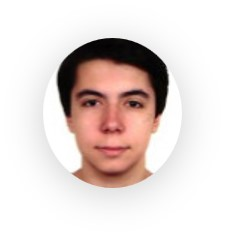
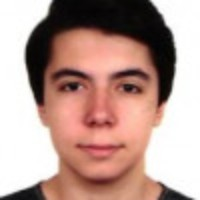
takım

diff --git a/index.html b/index.html
@@ -113,46 +113,54 @@
       </div>
     </section>
 
-
     <!--takım-->
 
-
     <section>
-      <div class="container-fluid team justify-content-center align-item-center">
+      <div
+        class="container-fluid team justify-content-center align-item-center"
+      >
         <div style="padding-top: 30px; margin-bottom: 3rem" class="container">
-          <h2 >takım</h2>
+          <h2>takım</h2>
         </div>
         <div class="container">
           <div class="row team1">
-            <div class="col-md">
-              <img class="head rounded-circle" src="efe.jpg" alt="">
+            <div class="col-md mobile">
+              <img class="head" src="efe.jpg" alt="" />
+              <h4 style="margin-top: 0.8rem">Efe Tekin</h4>
+              <h5>Bilgisayar Mühendisi</h5>
             </div>
-            <div class="col-md">
-              <img class="head rounded-circle" src="ekin.jpg" alt="">
+            <div class="col-md mobile">
+              <img class="head" src="ekin.jpg" alt="" />
+              <h4 style="margin-top: 0.8rem">Mehmet Ekin Ay</h4>
+              <h5>Bilgisayar Mühendisi</h5>
             </div>
           </div>
           <div class="row team2">
-            <div class="col-md">
-              <img class="head rounded-circle" src="zeren.jpg" alt="">
+            <div class="col-md mobile">
+              <img class="head" src="zeren.jpg" alt="" />
+              <h4 style="margin-top: 0.8rem">Zeren Safi</h4>
+              <h5>Reklamcı</h5>
             </div>
-            <div class="col-md">
-              <img class="head rounded-circle" src="irem.jpg" alt="">
+            <div class="col-md mobile">
+              <img class="head" src="irem.jpg" alt="" />
+              <h4 style="margin-top: 0.8rem">İrem Keser</h4>
+              <h5>Genetik Mühendis</h5>
             </div>
           </div>
           <div class="row team3">
             <div class="col-md">
-              <img class="head "  src="enes.jpg" alt="">
+              <img class="head" src="enes.jpg" alt="" />
+              <h4 style="margin-top: 0.8rem">Mehmet Enes oy</h4>
+              <h5>Bilgisayar Mühendisi</h5>
+              <h5 style="margin-bottom: 2rem;">Fikrin Sahibi</h5>
             </div>
-            
-          </div>
-          <div>
-            
           </div>
         </div>
-
-
-
       </div>
+      <!--iletişim-->
+    </section  >
+
+    <section>
 
     </section>
   </body>

diff --git a/style.css b/style.css
@@ -100,11 +100,37 @@ body {
 }
 
 .team3{
-  margin-bottom: 4rem;
+  margin-bottom: 5rem;
 }
 
 
 .head {
-  max-width: 12rem;
-  max-height: 12rem;
+  max-width: 11rem;
+  max-height: 11rem;
+}
+
+img {
+  border-radius: 50%;
+}
+
+
+
+
+@media only screen and (max-width: 768px) {
+  
+  .mobile {
+    margin-bottom: 5rem;
+  }
+
+  .team1 {
+    margin-bottom: 0rem;
+  }
+  
+  .team2 {
+    margin-bottom: 0rem;
+  }
+  
+  
+
+
 }
